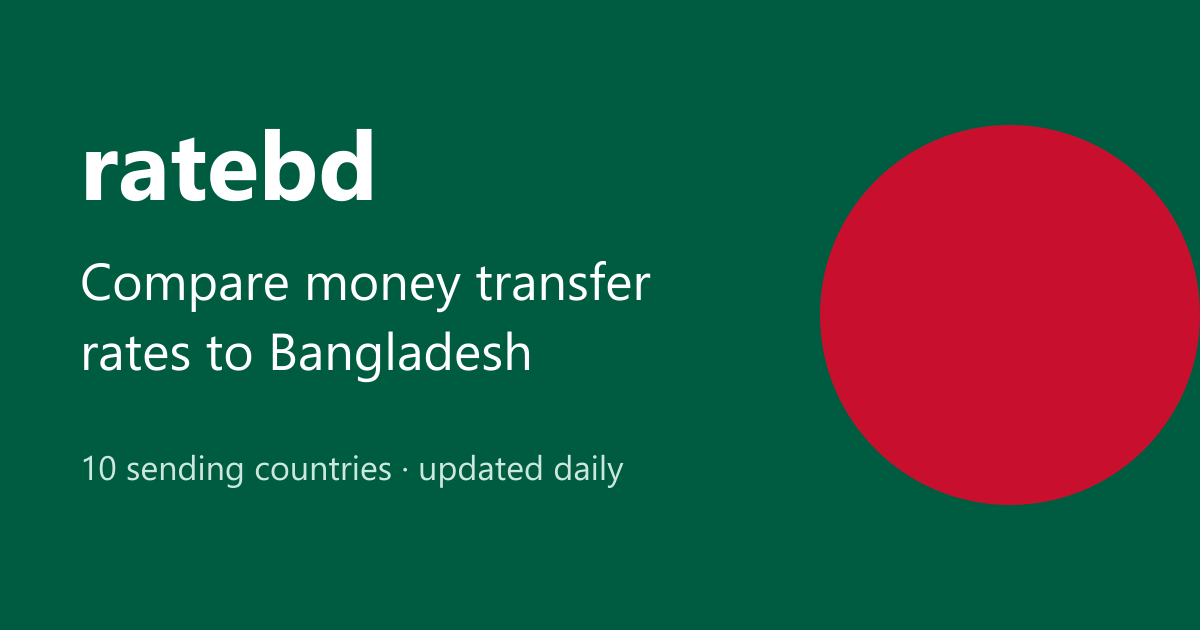
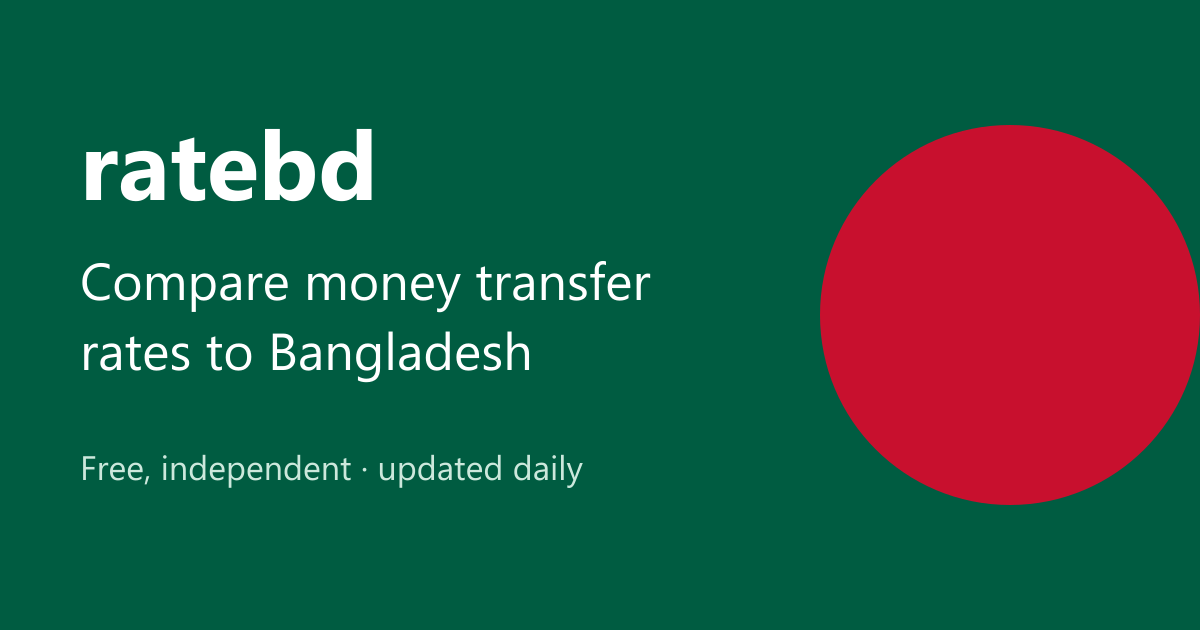
site: show only routes with a permitted provider
A route appears only when a provider listed in providers.json has a
quote or posted rate for it. The UK, USA, Italy, UAE, Malaysia and
Singapore routes are hidden until a permitted provider returns, and
reappear on their own once one does.

Copy that named the removed providers is rewritten: the home
description, How rates work (examples now from the Gulf) and the
trademark examples on the legal page. The OG image no longer states a
country count.

Changed region(s): [[0.0617, 0.7238, 0.5242, 0.7841]]

diff --git a/site/src/i18n/ui.ts b/site/src/i18n/ui.ts
@@ -32,7 +32,7 @@ const en = {
 
   "home.title": "Compare money transfer rates to Bangladesh",
   "home.description":
-    "Daily comparison of the taka that Wise, Remitly, Western Union and other services deliver from the UK, the USA, Italy, Saudi Arabia, the UAE, Kuwait, Qatar, Oman, Malaysia and Singapore, with the rates Gulf exchange houses post, measured against a mid-market benchmark based on Bangladesh Bank's USD/BDT rate.",
+    "Daily comparison of the taka that money transfer services and exchange houses deliver to Bangladesh, measured against a mid-market benchmark based on Bangladesh Bank's USD/BDT rate. Only providers whose terms allow it are included.",
   "home.lead":
     "Every day we ask each provider what your family in Bangladesh would receive and compare it with the mid-market rate, so you can see the real cost: the fee plus the exchange-rate margin.",
   "home.bestFor": "Most taka for {amount} today",
@@ -161,13 +161,6 @@ const en = {
   "provider.compare": "Compare with other providers from {country}",
   "provider.allTitle": "Providers we track",
 
-  "source.Wise": "Wise's public quote endpoint, the one its website calculator uses, paying by bank transfer. Wise deducts its fee from the amount you send.",
-  "source.Remitly":
-    "Remitly's public calculator. We show the standard price (everyday rate and fee), not the one-off discount Remitly gives on a first transfer.",
-  "source.TaptapSend":
-    "Taptap Send's public rate feed, which gives one exchange rate per route. It lists no fee for Bangladesh, and gives no delivery method or delivery time.",
-  "source.WorldRemit":
-    "WorldRemit's public calculator. We price each payout method it offers for Bangladesh and show the one that delivers the most. Its fee is added on top, so we deduct it from the amount sent.",
   "source.WesternUnion":
     "Western Union's public price calculator for Saudi Arabia, Kuwait and Qatar, as a website visitor sees it. We show its bank-deposit price; any fee is added on top, so we deduct it from the amount sent. Western Union's Oman site has no online calculator.",
   "source.AlMulla":
@@ -248,7 +241,7 @@ const bn: Record<UiKey, string> = {
 
   "home.title": "বাংলাদেশে টাকা পাঠানোর রেট তুলনা করুন",
   "home.description":
-    "যুক্তরাজ্য, যুক্তরাষ্ট্র, ইতালি, সৌদি আরব, সংযুক্ত আরব আমিরাত, কুয়েত, কাতার, ওমান, মালয়েশিয়া ও সিঙ্গাপুর থেকে Wise, Remitly, Western Union ও অন্যান্য সেবা কত টাকা পৌঁছে দেয়, সঙ্গে উপসাগরীয় এক্সচেঞ্জ হাউসগুলোর ঘোষিত রেট, বাংলাদেশ ব্যাংকের ডলার/টাকা রেটভিত্তিক মিড-মার্কেট মানদণ্ডের সঙ্গে তার প্রতিদিনের তুলনা।",
+    "মানি ট্রান্সফার সেবা ও এক্সচেঞ্জ হাউসগুলো বাংলাদেশে কত টাকা পৌঁছে দেয়, বাংলাদেশ ব্যাংকের ডলার/টাকা রেটভিত্তিক মিড-মার্কেট মানদণ্ডের সঙ্গে তার প্রতিদিনের তুলনা। শুধু যেসব প্রতিষ্ঠানের শর্তে এটি অনুমোদিত, সেগুলোই অন্তর্ভুক্ত।",
   "home.lead":
     "প্রতিদিন আমরা প্রতিটি প্রতিষ্ঠানের কাছ থেকে জেনে নিই বাংলাদেশে আপনার পরিবার কত টাকা পাবে, এবং তা মিড-মার্কেট রেটের সঙ্গে তুলনা করি। এতে আসল খরচ বোঝা যায়: ফি এবং বিনিময় হারের মার্জিন।",
   "home.bestFor": "আজ {amount} পাঠালে সবচেয়ে বেশি টাকা",
@@ -377,13 +370,6 @@ const bn: Record<UiKey, string> = {
   "provider.compare": "{country} থেকে অন্যান্য প্রতিষ্ঠানের সঙ্গে তুলনা করুন",
   "provider.allTitle": "যেসব প্রতিষ্ঠান আমরা দেখি",
 
-  "source.Wise": "Wise-এর পাবলিক কোট সেবা (তাদের ওয়েবসাইটের ক্যালকুলেটরও এই সেবাটিই ব্যবহার করে), ব্যাংক ট্রান্সফারে পরিশোধ ধরে। Wise পাঠানো অঙ্ক থেকেই ফি কেটে নেয়।",
-  "source.Remitly":
-    "Remitly-এর পাবলিক ক্যালকুলেটর। আমরা সাধারণ দাম (নিয়মিত রেট ও ফি) দেখাই, প্রথম ট্রান্সফারে দেওয়া এককালীন ছাড় নয়।",
-  "source.TaptapSend":
-    "Taptap Send-এর পাবলিক রেট ফিড, যা প্রতিটি পথে একটি বিনিময় হার দেয়। বাংলাদেশের জন্য এতে কোনো ফি উল্লেখ নেই, এবং পাঠানোর পদ্ধতি বা সময়ও জানানো হয় না।",
-  "source.WorldRemit":
-    "WorldRemit-এর পাবলিক ক্যালকুলেটর। বাংলাদেশের জন্য তাদের প্রতিটি পেআউট পদ্ধতির দাম দেখে যেটিতে সবচেয়ে বেশি টাকা পৌঁছায় সেটি দেখাই। ফি আলাদাভাবে যোগ হয়, তাই আমরা তা পাঠানো অঙ্ক থেকে বাদ দিই।",
   "source.WesternUnion":
     "সৌদি আরব, কুয়েত ও কাতারের জন্য Western Union-এর পাবলিক দামের ক্যালকুলেটর, ওয়েবসাইটের একজন দর্শক যেভাবে দেখেন। আমরা ব্যাংক অ্যাকাউন্টে জমার দাম দেখাই; কোনো ফি থাকলে তা আলাদাভাবে যোগ হয়, তাই আমরা তা পাঠানো অঙ্ক থেকে বাদ দিই। ওমানের জন্য Western Union-এর ওয়েবসাইটে কোনো অনলাইন ক্যালকুলেটর নেই।",
   "source.AlMulla":

diff --git a/site/src/lib/data.ts b/site/src/lib/data.ts
@@ -50,11 +50,6 @@ const ALL_CORRIDORS: CorridorMeta[] = [
   { id: "sgd-bdt", from: "sgd", sendCurrency: "SGD", receiveCurrency: "BDT", countryKey: "country.sg", region: "region.asia" },
 ];
 
-/**
- * Corridors that have data. A corridor added to the engine appears on the site after the first run that writes
- * data/{id}.json, so the build never fails on a new, not-yet-fetched corridor.
- */
-export const CORRIDORS: CorridorMeta[] = ALL_CORRIDORS.filter((c) => existsSync(join(DATA_DIR, `${c.id}.json`)));
 
 export interface ProviderMeta {
   slug: string;
@@ -78,6 +73,19 @@ export function corridorByFrom(from: string): CorridorMeta {
 
 const snapshotCache = new Map<string, CorridorSnapshot>();
 const historyCache = new Map<string, HistoryPoint[]>();
+
+/**
+ * Routes shown on the site: the engine has written data/{id}.json and at least one provider listed in
+ * providers.json has a quote or posted rate there. A route whose providers were all removed (for example because
+ * their terms forbid automated collection) stays hidden until a permitted provider has data again; a new route
+ * appears after its first run, so the build never fails on a not-yet-fetched corridor.
+ */
+export const CORRIDORS: CorridorMeta[] = ALL_CORRIDORS.filter((c) => {
+  if (!existsSync(join(DATA_DIR, `${c.id}.json`))) return false;
+  const listed = new Set(PROVIDERS.map((p) => p.engineName));
+  const snapshot = loadSnapshot(c.id);
+  return snapshot.quotes.some((q) => listed.has(q.provider)) || (snapshot.postedRates ?? []).some((r) => listed.has(r.provider));
+});
 
 function readJson<T>(path: string): T {
   return JSON.parse(readFileSync(path, "utf8")) as T;
